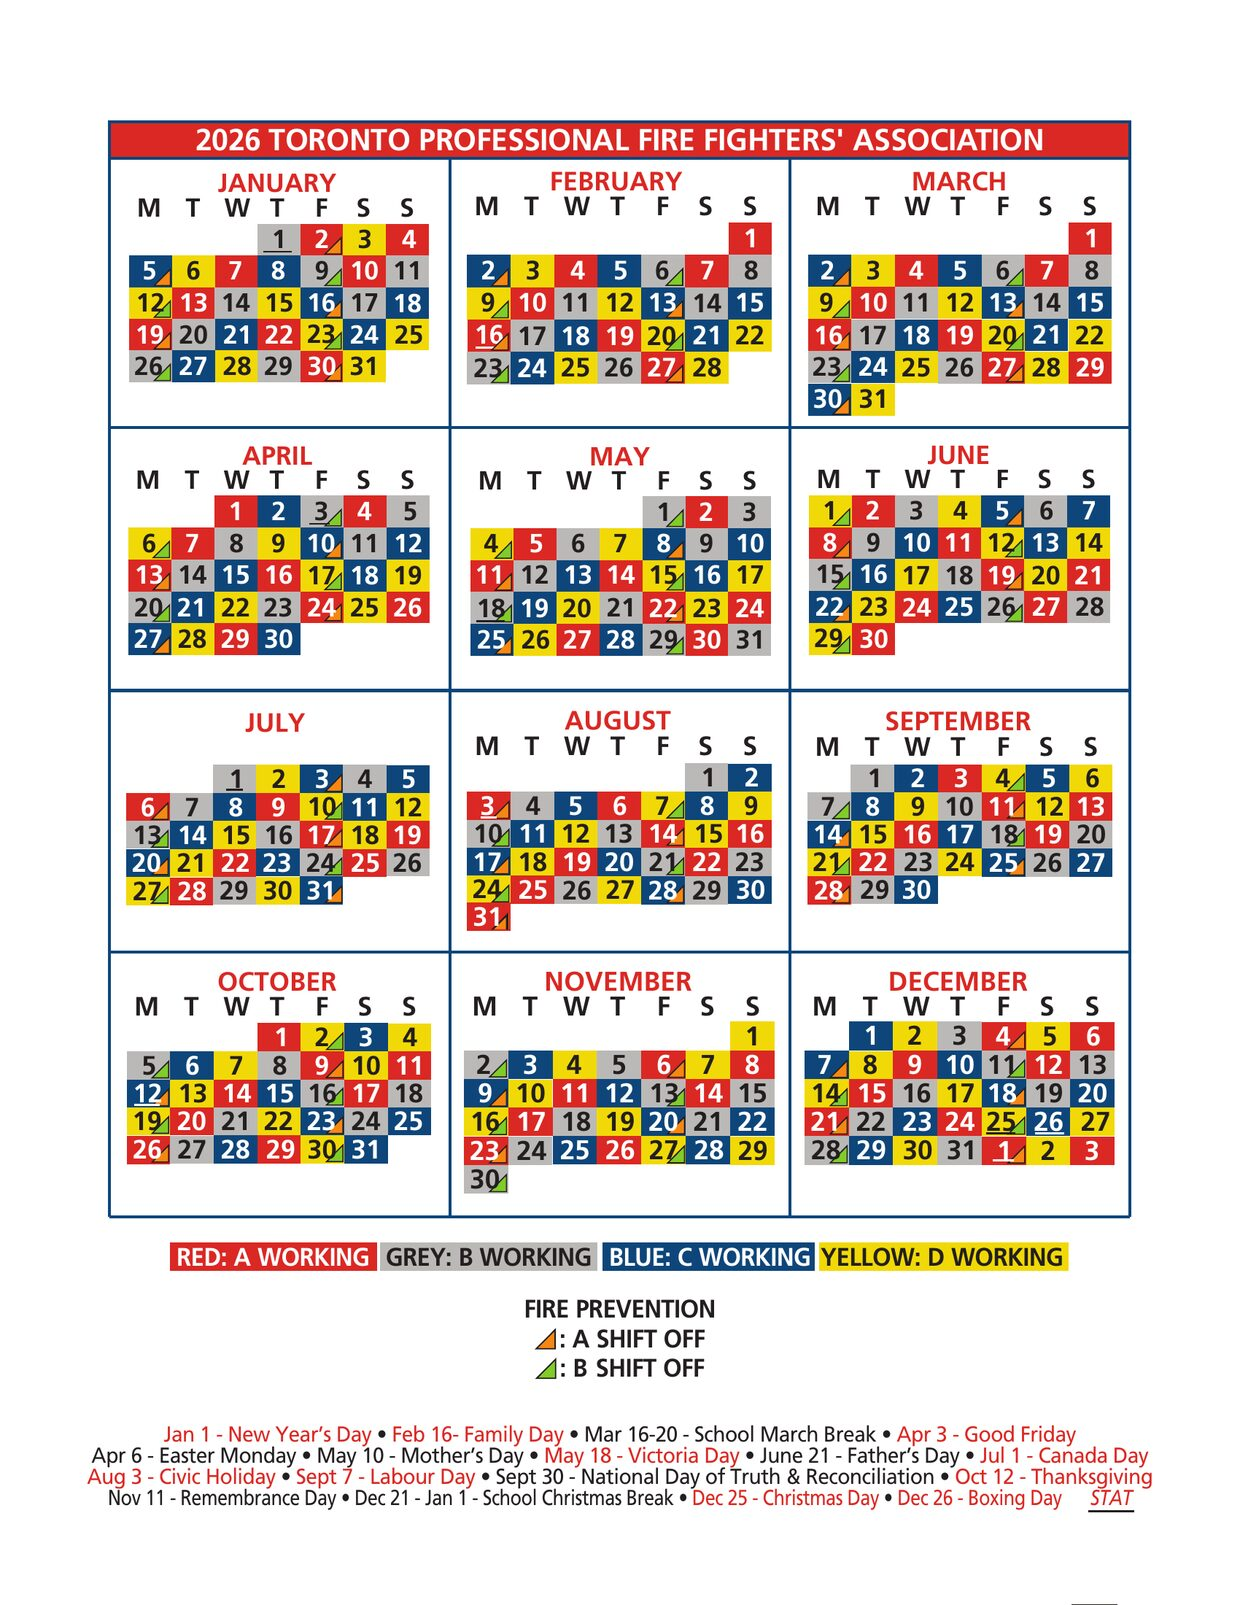
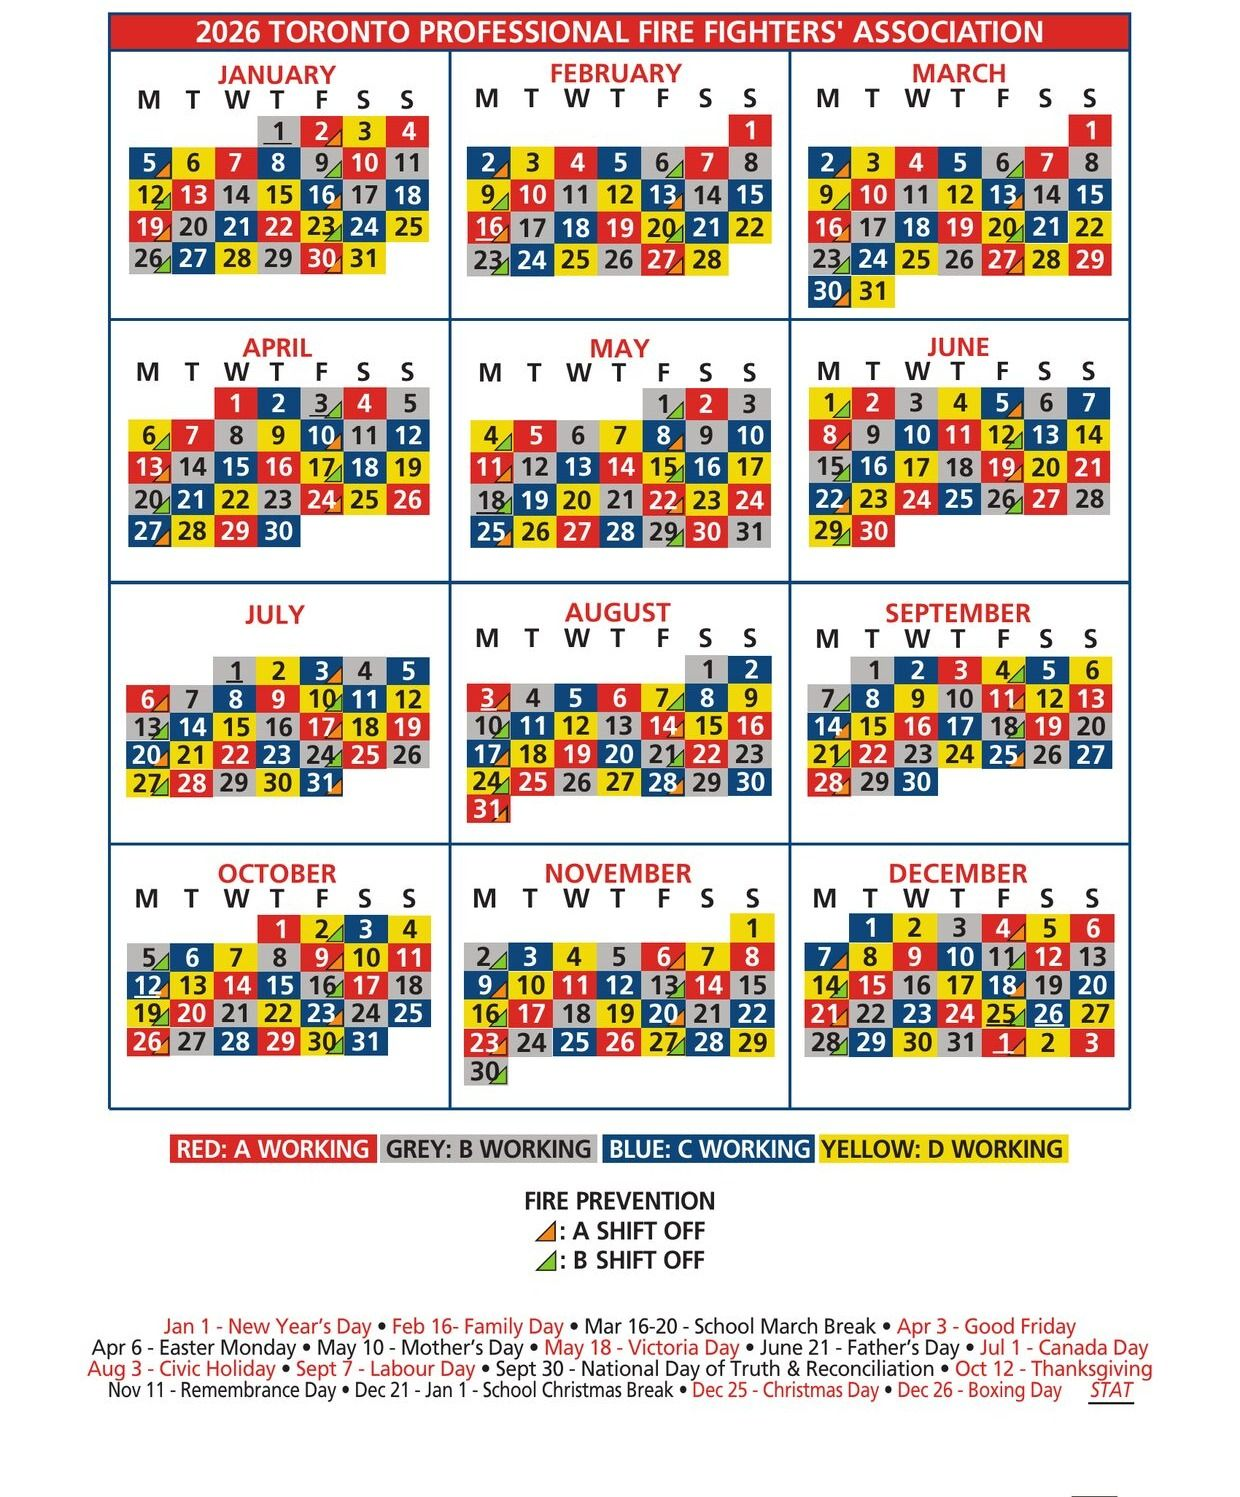
Improve shift calendar SEO and add legend above calendar
Lead the page title and heading with "2026 Toronto Fire Shift Calendar"
and add a per-page meta description. Add the colour legend ribbon above
the calendar so it's visible without scrolling, and trim the top
whitespace off the calendar image.

diff --git a/src/routes/shift-calendar/index.tsx b/src/routes/shift-calendar/index.tsx
@@ -6,10 +6,12 @@ const ShiftCalendar: FunctionalComponent = () => {
     return (
         <div class={style.shift}>
             <Helmet>
-                <title>Greater Toronto Multiple Alarm Association - Shift Calendar</title>
+                <title>2026 Toronto Fire Shift Calendar | GTMAA</title>
+                <meta name="description" content="The 2026 Toronto Fire Services shift calendar." />
             </Helmet>
-            <h1>TORONTO FIRE SHIFT CALENDAR</h1>
+            <h1>2026 TORONTO FIRE SHIFT CALENDAR</h1>
             <p>The Toronto Fire Services Suppression Division is divided into four platoons, each working a 24-hour shift. Shift rotation is staggered over twenty-eight days as depicted in the below schedule provided by the Toronto Professional Firefighters Association. The staggered rotation allows each platoon to have two complete weekends off per month. Shift change occurs at 07:00 hrs each morning.</p>
+            <img class={style.legend} src="/assets/shift-calendars/shift-legend.jpg" alt="Legend: red is A platoon working, grey is B, blue is C, yellow is D" />
             <img class={style.cal} src="/assets/shift-calendars/2026.jpg" alt="2026 Toronto Fire Services shift calendar" />
         </div>
     );

diff --git a/src/routes/shift-calendar/style.scss b/src/routes/shift-calendar/style.scss
@@ -10,6 +10,13 @@
 	}
 }
 
+.legend {
+    display: block;
+    margin: 0 auto 12px;
+    max-width: 100%;
+    height: auto;
+}
+
 .cal {
     display: block;
     margin-left: auto;
